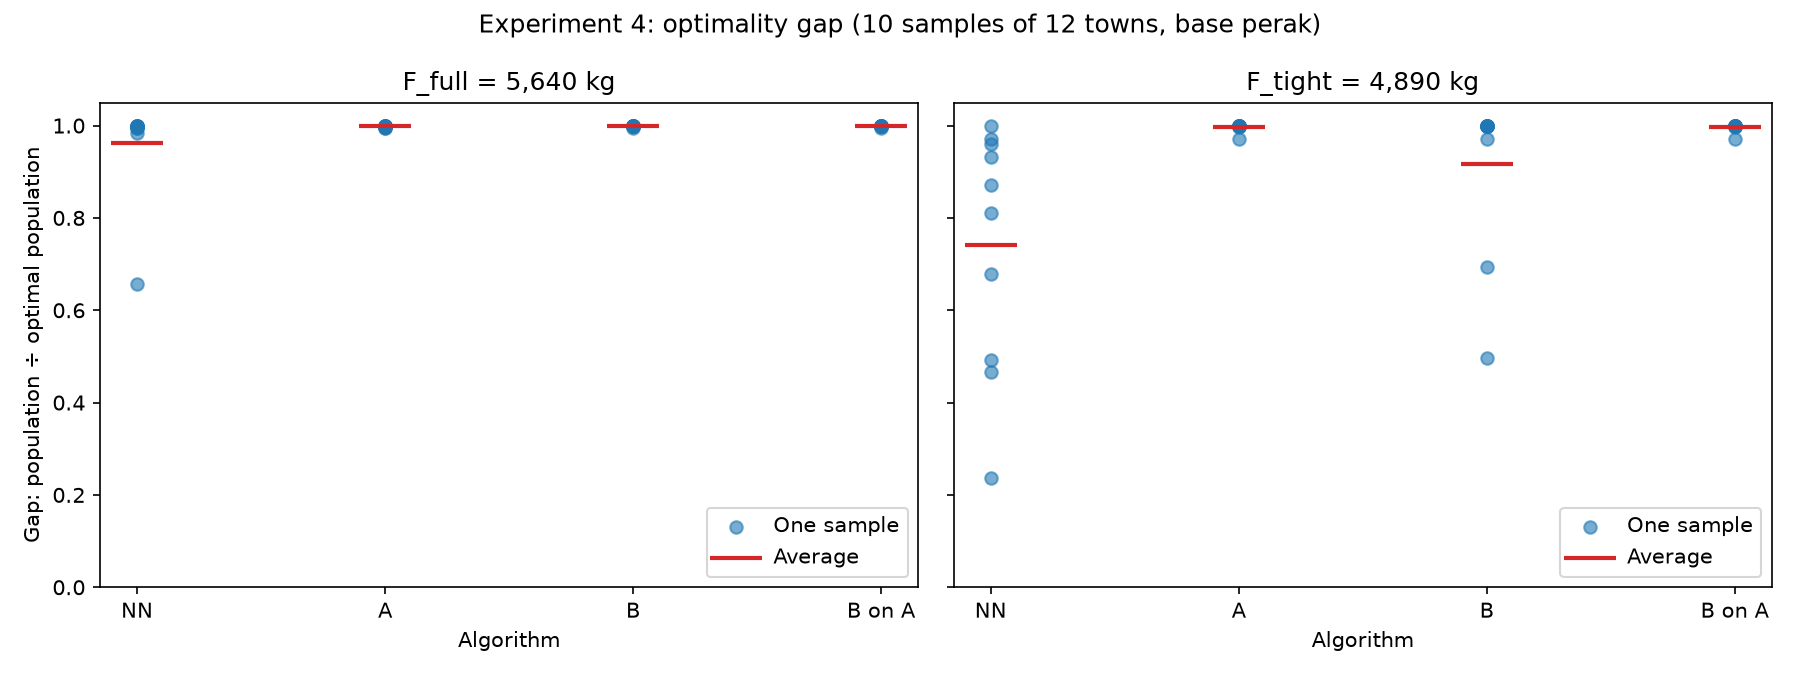
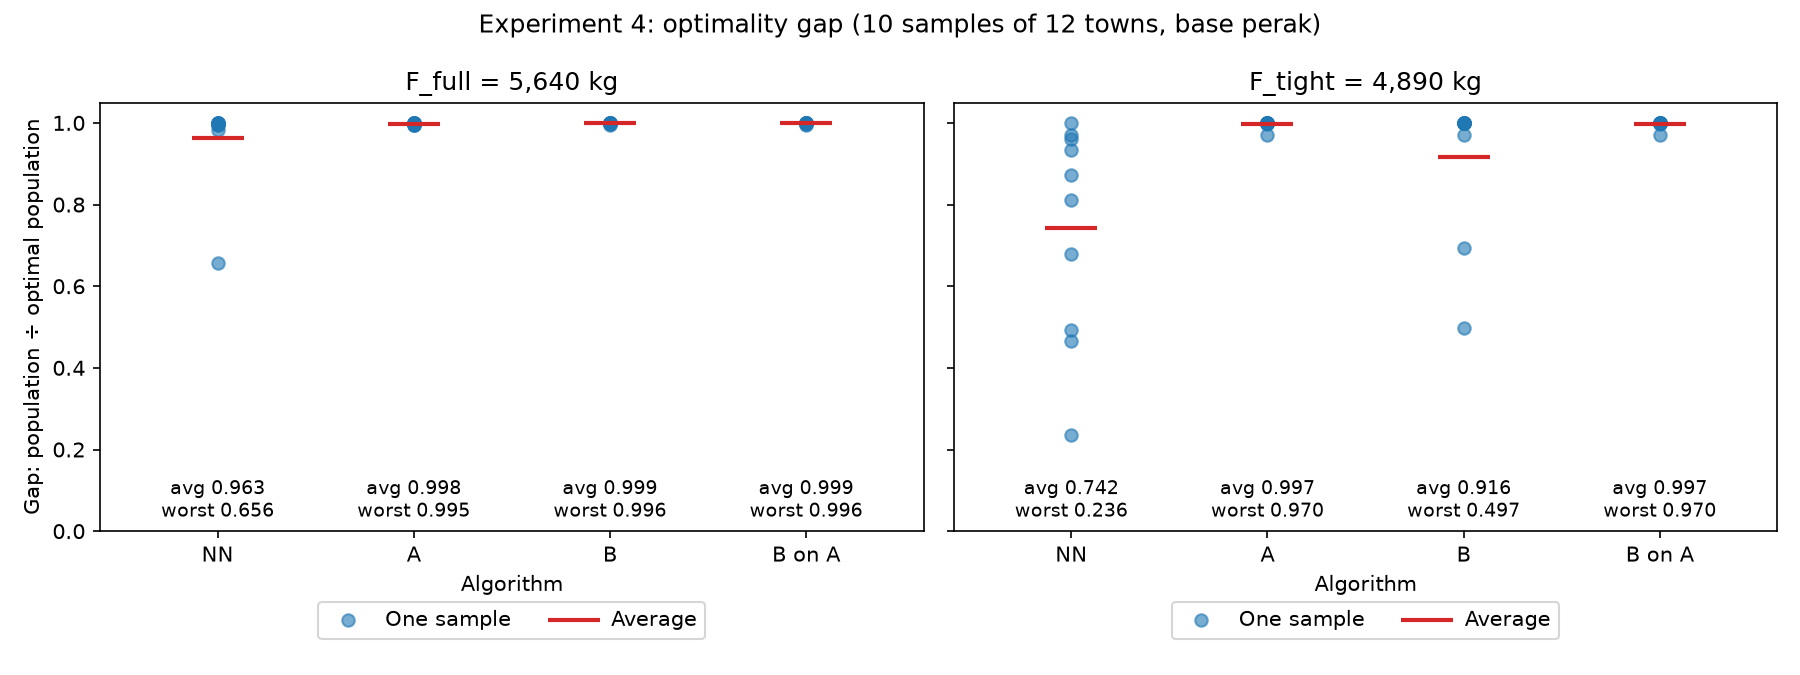
fix: show worst optimality gap in plot and reject zero repeats

diff --git a/experiments/e3_bases/run.py b/experiments/e3_bases/run.py
@@ -13,14 +13,14 @@ import matplotlib
 matplotlib.use("Agg")
 import matplotlib.pyplot as plt
 
-from airdrop.model import BASES, Instance, Params, Town, load_towns
+from airdrop.model import BASES, RURAL_BASES, Instance, Params, Town, load_towns
 from experiments.common import read_runs, run, write_outputs
 
 EXPERIMENT = "e3_bases"
 # region -> (rural base, non-rural base), docs/DECISIONS.md 2026-10-27
 REGIONS = {"Peninsula": ("perak", "klia"), "Sarawak": ("sarawak", "kuching"),
            "Sabah": ("sabah", "kota_kinabalu")}
-MAIN = ("nn", "a_heap", "b")
+MAIN_CHART = ("nn", "a_heap", "b")
 LABELS = {"nn": "Nearest neighbour", "a_heap": "A", "b": "B", "b_on_a": "B on A"}
 
 
@@ -30,7 +30,7 @@ def run_experiment(towns: Sequence[Town], out_dir: Path, bases: Sequence[str] = 
     for base in bases:
         inst = Instance(BASES[base], towns, Params())
         a_route = None
-        for algorithm in (*MAIN, "b_on_a"):
+        for algorithm in (*MAIN_CHART, "b_on_a"):
             r, s, result = run(EXPERIMENT, len(runs), inst, base, algorithm, a_route=a_route)
             if algorithm == "a_heap":
                 a_route = result.route
@@ -40,7 +40,7 @@ def run_experiment(towns: Sequence[Town], out_dir: Path, bases: Sequence[str] = 
 
 
 def _base_label(base: str) -> str:
-    return f"{base}\n({'rural' if any(base == rural for rural, _ in REGIONS.values()) else 'non-rural'})"
+    return f"{base}\n({'rural' if base in RURAL_BASES else 'non-rural'})"
 
 
 def plot(out_dir: Path) -> None:
@@ -52,8 +52,8 @@ def plot(out_dir: Path) -> None:
     order = [base for pair in REGIONS.values() for base in pair]
     x = range(len(order))
     width = 0.27
-    fig, (ax, ax_ba) = plt.subplots(1, 2, figsize=(14, 5), gridspec_kw={"width_ratios": [2, 1]})
-    for i, algorithm in enumerate(MAIN):
+    fig, (ax, ax_b_on_a) = plt.subplots(1, 2, figsize=(14, 5), gridspec_kw={"width_ratios": [2, 1]})
+    for i, algorithm in enumerate(MAIN_CHART):
         ax.bar([p + (i - 1) * width for p in x], [population[b, algorithm] for b in order], width,
                label=LABELS[algorithm])
     for i in range(1, len(REGIONS)):
@@ -63,12 +63,13 @@ def plot(out_dir: Path) -> None:
     ax.set_xticks(list(x), [_base_label(b) for b in order])
     ax.set_ylabel("Population reached (millions)")
     ax.set_title("NN, A and B from each base", pad=22)
-    ax.legend(loc="upper center", bbox_to_anchor=(0.5, -0.16), ncol=len(MAIN))
-    ax_ba.bar(list(x), [population[b, "b_on_a"] for b in order], 0.6, color="tab:purple", label=LABELS["b_on_a"])
-    ax_ba.set_xticks(list(x), [_base_label(b) for b in order], fontsize=8)
-    ax_ba.set_ylabel("Population reached (millions)")
-    ax_ba.set_title("B on A (local search from A's route)", pad=22)
-    ax_ba.legend(loc="upper center", bbox_to_anchor=(0.5, -0.16))
+    ax.legend(loc="upper center", bbox_to_anchor=(0.5, -0.16), ncol=len(MAIN_CHART))
+    ax_b_on_a.bar(list(x), [population[b, "b_on_a"] for b in order], 0.6, color="tab:purple",
+                  label=LABELS["b_on_a"])
+    ax_b_on_a.set_xticks(list(x), [_base_label(b) for b in order], fontsize=8)
+    ax_b_on_a.set_ylabel("Population reached (millions)")
+    ax_b_on_a.set_title("B on A (local search from A's route)", pad=22)
+    ax_b_on_a.legend(loc="upper center", bbox_to_anchor=(0.5, -0.16))
     fig.suptitle(f"Experiment 3: bases (F = {runs[0]['F']:,.0f} kg, {runs[0]['n_towns']} towns)")
     fig.tight_layout()
     fig.savefig(out_dir / "plot.png", dpi=150)

diff --git a/experiments/e4_optimality_gap/run.py b/experiments/e4_optimality_gap/run.py
@@ -82,7 +82,7 @@ def run_experiment(towns: Sequence[Town], out_dir: Path, seeds: Sequence[int] = 
 
 def plot(out_dir: Path) -> None:
     """One panel per F: the gap (heuristic population / DP population) per algorithm, one dot per
-    sample, with the average marked."""
+    sample, with the average marked and the average and worst gap written under each algorithm."""
     out_dir = Path(out_dir)
     runs = read_runs(out_dir / "runs.csv")
     Fs = sorted({r["F"] for r in runs}, reverse=True)
@@ -96,13 +96,17 @@ def plot(out_dir: Path) -> None:
                     if r["algorithm"] == algorithm and optimum[r["sample"]] > 0]
             ax.scatter([x] * len(gaps), gaps, alpha=0.6, color="tab:blue",
                        label="One sample" if x == 0 else None)
-            ax.scatter([x], [sum(gaps) / len(gaps)], marker="_", s=600, color="tab:red", linewidths=2,
+            average = sum(gaps) / len(gaps)
+            ax.scatter([x], [average], marker="_", s=600, color="tab:red", linewidths=2,
                        label="Average" if x == 0 else None)
+            ax.text(x, 0.02, f"avg {average:.3f}" + chr(10) + f"worst {min(gaps):.3f}", ha="center",
+                    va="bottom", fontsize=9)
         ax.set_xticks(range(len(HEURISTICS)), [LABELS[a] for a in HEURISTICS])
         ax.set_ylim(0, 1.05)
+        ax.set_xlim(-0.6, len(HEURISTICS) - 0.4)
         ax.set_xlabel("Algorithm")
         ax.set_title(f"{name} = {F:,.0f} kg")
-        ax.legend(loc="lower right")
+        ax.legend(loc="upper center", bbox_to_anchor=(0.5, -0.14), ncol=2)
     axes[0][0].set_ylabel("Gap: population ÷ optimal population")
     n_samples = len({r["sample"] for r in runs})
     fig.suptitle(f"Experiment 4: optimality gap ({n_samples} samples of {runs[0]['n_towns']} towns, "

diff --git a/experiments/common.py b/experiments/common.py
@@ -64,6 +64,8 @@ def run(experiment: str, run_id: int, inst: Instance, base: str, algorithm: str,
         a_route: Sequence[int] | None = None) -> tuple[Run, list[Stop], SolveResult]:
     """Solve, keeping the best wall-clock time of `repeats` solver calls (trace not timed), and trace
     the route."""
+    if repeats < 1:
+        raise ValueError(f"repeats must be at least 1, got {repeats}")
     best = None
     for _ in range(repeats):
         start = time.perf_counter()

diff --git a/tests/test_experiments.py b/tests/test_experiments.py
@@ -69,6 +69,11 @@ def test_output_headers(tmp_path):
     assert header(tmp_path / "routes.csv") == ROUTES_HEADER
 
 
+def test_run_needs_a_repeat():
+    with pytest.raises(ValueError):
+        run("e0_test", 0, small_instance(), "origin", "nn", repeats=0)
+
+
 def rows(path):
     with open(path, newline="", encoding="utf-8") as f:
         return list(csv.DictReader(f))

diff --git a/docs/specs/2026-10-27-experiment-scripts.md b/docs/specs/2026-10-27-experiment-scripts.md
@@ -124,6 +124,7 @@ It is run as `python -m experiments.eN_<name>.run` from the repo root. That load
     - The CSV columns are derived from the `Run` and `Stop` dataclass fields (`routes.csv` is the 4 key columns then every `Stop` field), so the files cannot drift from the dataclasses. Doc: `docs/CONTRACTS.md`.
     - `routes.csv` rows follow the order of `runs`, then `step`. Doc: `docs/CONTRACTS.md`.
     - With `repeats > 1`, `run` returns the last call's `SolveResult` (the solvers are deterministic) and `time_s` is the minimum. Doc: `docs/CONTRACTS.md` (`time_s`).
+    - Code review: `run` raises `ValueError` when `repeats < 1` (it used to fail with `UnboundLocalError`). Doc: `docs/CONTRACTS.md` (Experiment output).
 
 ### S2 Fixed fuel cap in the experiment plan (docs only)
 
@@ -249,6 +250,7 @@ It is run as `python -m experiments.eN_<name>.run` from the repo root. That load
     - The binary search assumes its rule is false below the answer and true above it, searches multiples of 10 from `ceil(R / 10)` to `Params().F`, and raises `ValueError` when the rule fails at 21,100 kg. Doc: `docs/EXPERIMENT.md` (experiment 4).
     - Runs go `F_full` first, then `F_tight`; for each sample `dp`, `nn`, `a_heap`, `b`, `b_on_a`, with `b_on_a` seeded by that sample's `a_heap` route at the same `F`. Every run is 1 repeat. Doc: `docs/EXPERIMENT.md` (experiment 4).
     - The plot names the larger `F` "F_full" and the smaller "F_tight", since `runs.csv` holds only the values. `transient`.
+    - Code review: the plot writes "avg" and "worst" gap under each algorithm in each panel, so the report of average and worst per algorithm per `F` comes from `runs.csv` alone; legends sit below the axes. Doc: `docs/EXPERIMENT.md` (experiment 4 results).
     - The run found `F_full = 5,640 kg` (DP visits 12 towns in 8 samples, 11 in 2; coverage 98.3%) and `F_tight = 4,890 kg` (DP visits 7–11 towns, 96 of 120; coverage exactly 80.0%). The gaps, to 3 decimals, are those of the planning table above. The planning table's 4,900 kg came from a float comparison: `0.8 * 12` is `9.600000000000001`, so a mean of exactly 9.6 towns failed the rule. `coverage_F` compares the town totals with a `1e-9` tolerance instead. Doc: `docs/EXPERIMENT.md` (experiment 4 results); the tolerance is a code comment in `coverage_F`.
 
 ## 6. Human checks

diff --git a/docs/PROBLEM.md b/docs/PROBLEM.md
@@ -177,8 +177,8 @@ Every comparison uses the default fuel cap `F = 21,100 kg` (the full internal ta
   - nearest neighbour, Approach A, and Approach B (seeded from nearest neighbour);
   - an extra row, **B on A's route**, labelled as a combined result and kept off the main A-vs-B chart. It shows how much local search still adds on top of a good route.
 - **Optimality gap:** exact DP (below) on 10 random 12-town samples of Peninsular towns, from the Perak base, at two lower fixed fuel caps, each the same for all 10 samples and each an assumption (a partial fuel load for a short-range sortie):
-  - `F_full`: the smallest multiple of 10 kg at which the DP route visits all 12 towns in at least 8 of the 10 samples;
-  - `F_tight`: the smallest multiple of 10 kg at which the DP routes visit on average at least 80% of the 12 towns.
+  - `F_full`: the smallest multiple of 10 kg in `[R, 21,100]` at which the DP route visits all 12 towns in at least 8 of the 10 samples;
+  - `F_tight`: the smallest multiple of 10 kg in `[R, 21,100]` at which the DP routes visit on average at least 80% of the 12 towns.
 
   Report the average and worst gap per algorithm and per `F`: heuristic population ÷ optimal population.
 - **Complexity analysis** of each approach, including the O(1) move evaluation with prefix sums.
